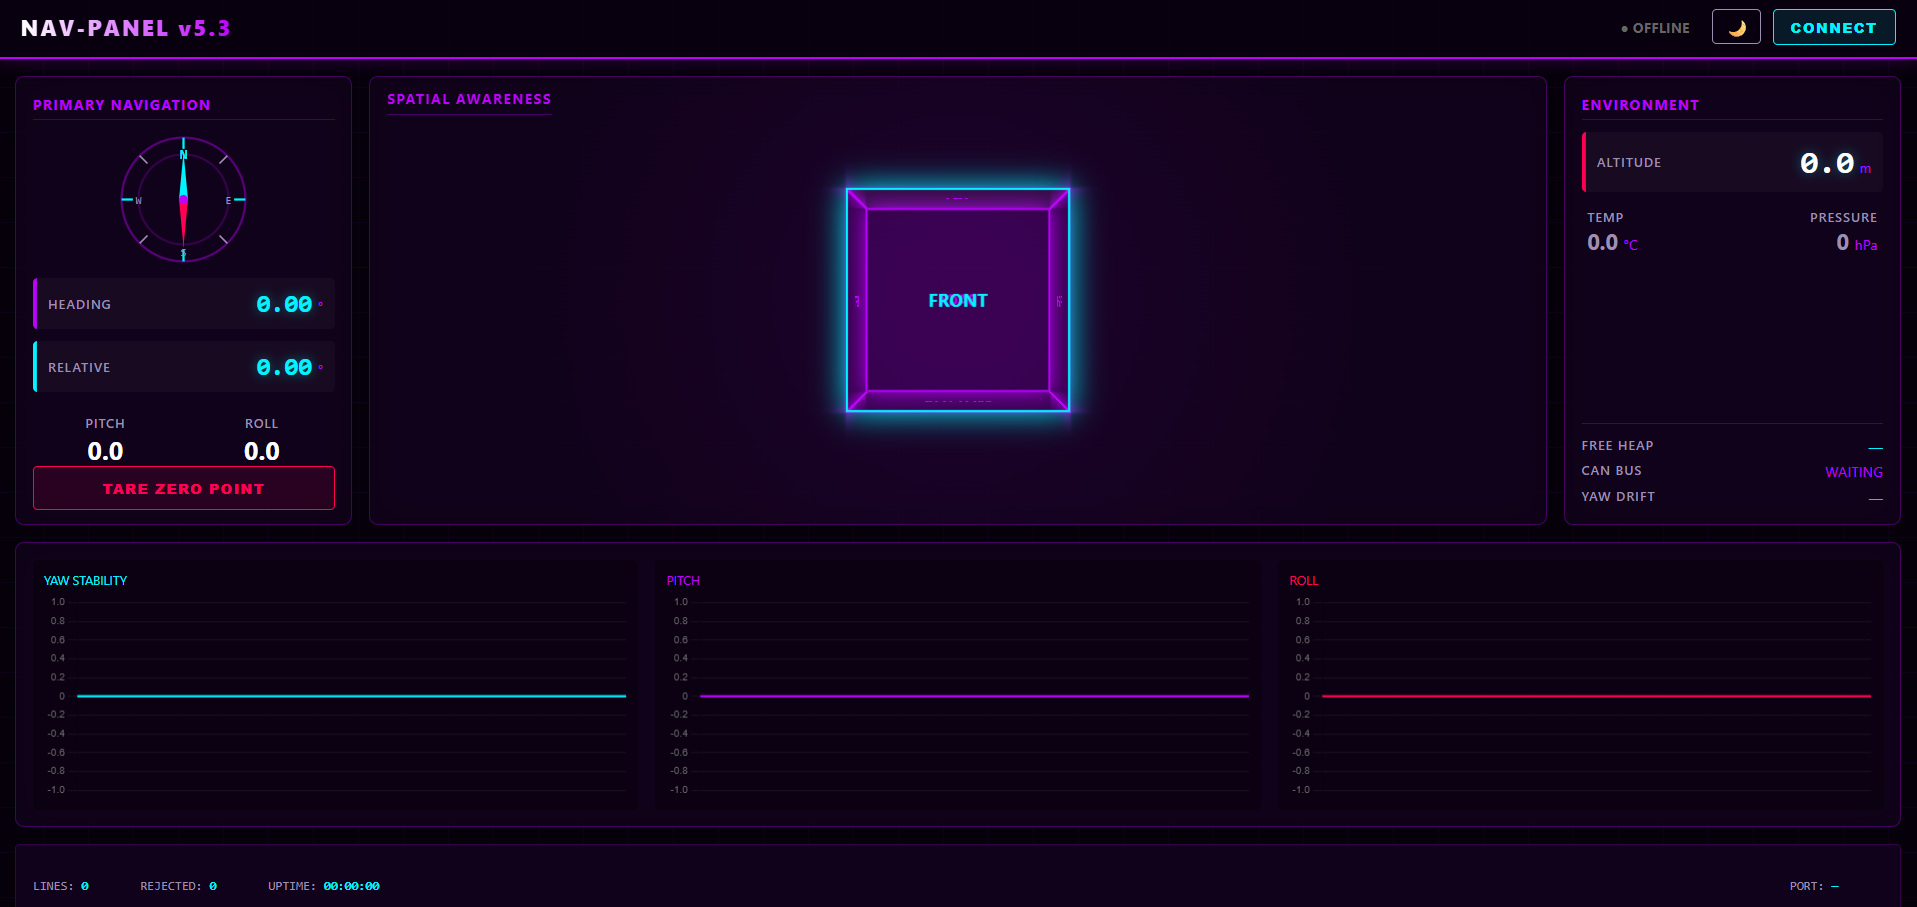
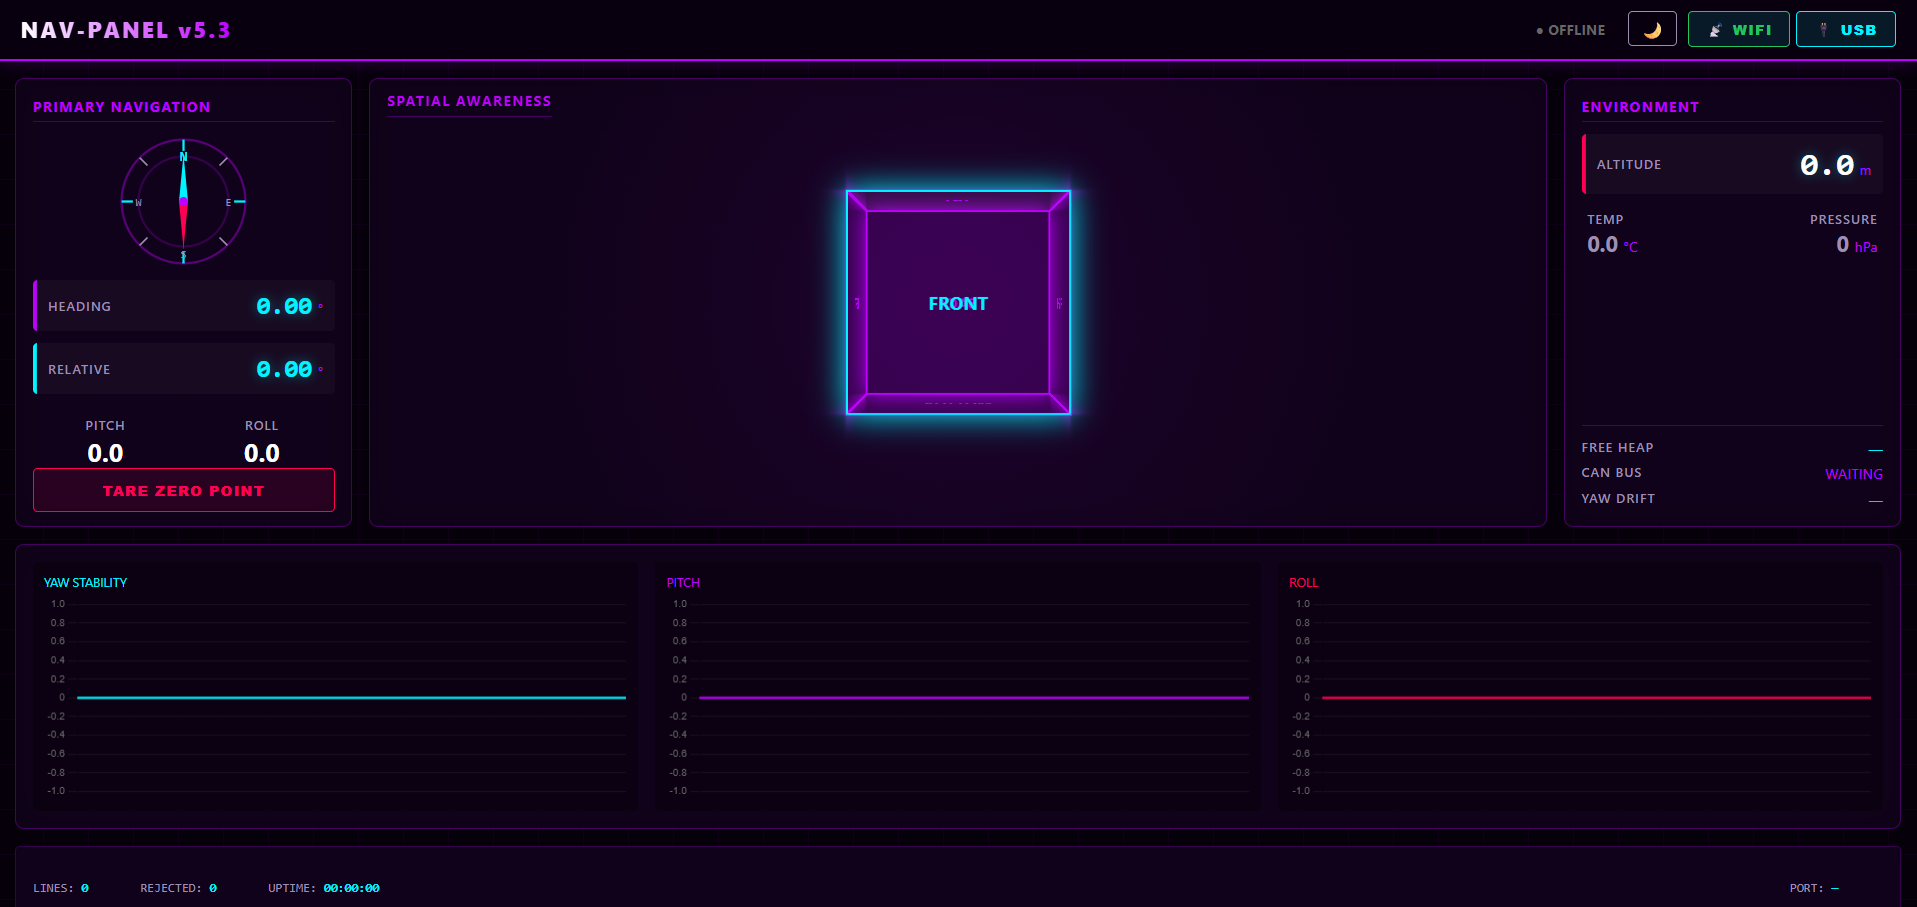
Update to v5.5: Documentation & Branding Updates

diff --git a/README.md b/README.md
@@ -1,11 +1,11 @@
-# 🚁 Industrial AHRS Navigation Module (V5.4)
+# 🚁 Industrial AHRS Navigation Module (V5.5)
 
 ![ESP32-S3](https://img.shields.io/badge/Hardware-ESP32--S3-red?style=for-the-badge&logo=espressif)
 ![Sensor Fusion](https://img.shields.io/badge/Fusion-DMP_225Hz-blue?style=for-the-badge)
 ![Connectivity](https://img.shields.io/badge/Connect-USB_%7C_UDP-purple?style=for-the-badge)
 ![License](https://img.shields.io/badge/License-MIT-green?style=for-the-badge)
 
-> **High-Precision Navigation Core for Competition Robotics (Robocon)**
+> **High-Precision Navigation Core for Competition Robotics**
 
 The **Industrial AHRS Navigation Module** is a robust sensor fusion engine built on the **ESP32-S3**. It delivers stable 6-axis orientation (Yaw, Pitch, Roll) via **1 Mbps CAN Bus** and offers **Dual-Mode Telemetry** (USB Serial + Wireless UDP) for real-time monitoring.
 
@@ -17,8 +17,9 @@ The **Industrial AHRS Navigation Module** is a robust sensor fusion engine built
 
 - [Key Features](#-key-features)
 - [System Architecture Overview](#-system-architecture-overview)
-- [Sensor Fusion Pipeline](#-sensor-fusion-pipeline)
+- [Sensor Fusion Pipeline (ICM-20948 DMP)](#-sensor-fusion-pipeline-icm-20948-dmp)
 - [System Status Indicators](#-system-status-indicators)
+- [FreeRTOS Task Architecture](#freertos-task-architecture)
 - [Hardware Specifications](#-hardware-specifications)
 - [Quick Start](#-quick-start)
 - [Documentation](#-documentation)
@@ -36,7 +37,7 @@ The **Industrial AHRS Navigation Module** is a robust sensor fusion engine built
 | **Power Optimized** | Efficient UDP broadcast, WiFi power save enabled, and smart task scheduling |
 | **High-Speed CAN** | ESP32-S3 TWAI driver at **1 Mbps** for Robomaster C620/C610 speed controllers |
 | **Environment Sensing** | BMP388 via SPI — Altitude (m), Pressure (hPa), Temperature (°C) at 50Hz ODR |
-| **Cyberpunk UI** | NAV PANEL v5.3 — Smoothed 3D cube, 30Hz live graphs, tare heading, health stats |
+| **Cyberpunk UI** | NAV PANEL v5.4 — Smoothed 3D cube, 30Hz live graphs, tare heading, health stats |
 
 ---
 
@@ -64,6 +65,7 @@ flowchart LR
         direction TB
         CAN_Task["taskCAN (P2, 50Hz)"]
         LED_Task["taskLED (P1, 10Hz)"]
+        Pool_Task["loop() (P1, Idle)"]
     end
 
     Mutex{{"🔒 Mutex"}}
@@ -80,42 +82,15 @@ flowchart LR
 
 ---
 
-## 🔬 Sensor Fusion Pipeline
+## 🌀 Sensor Fusion Pipeline (ICM-20948 DMP)
 
-### 1. DMP Quaternion Output
-The ICM-20948 DMP outputs raw fixed-point quaternion components (Q1, Q2, Q3). These are normalized from 30-bit signed integers:
+The module offloads complex sensor fusion math to the ICM-20948's **Digital Motion Processor (DMP)**. This frees up the ESP32-S3 for CAN communication and logic.
 
-```
-q1 = raw_Q1 / 1,073,741,824.0    (2^30)
-q2 = raw_Q2 / 1,073,741,824.0
-q3 = raw_Q3 / 1,073,741,824.0
-q0 = √(1 - q1² - q2² - q3²)      (unit quaternion constraint)
-```
-
-### 2. Quaternion → Euler Conversion
-Standard aerospace convention (ZYX rotation order):
-
-```
-Roll  (φ) = atan2(2(q0·q1 + q2·q3), 1 − 2(q1² + q2²)) × 180/π
-Pitch (θ) = asin(2(q0·q2 − q3·q1)) × 180/π
-Yaw   (ψ) = atan2(2(q0·q3 + q1·q2), 1 − 2(q2² + q3²)) × 180/π
-```
-
-### 3. Barometric Calculations
-```
-Pressure (hPa) = raw_pressure / 100.0         (BMP388 outputs Pa)
-Altitude (m)   = readAltitude(1013.25 hPa)     (ISA sea-level reference)
-Temperature    = direct reading (°C)
-```
-
-### 4. CAN Packing (Big-Endian)
-```
-int16_t yaw_raw   = (int16_t)(yaw_deg × 100)    → data[0..1]
-int16_t pitch_raw  = (int16_t)(pitch_deg × 100)  → data[2..3]
-int16_t roll_raw   = (int16_t)(roll_deg × 100)   → data[4..5]
-
-Each: data[n] = (val >> 8) & 0xFF,  data[n+1] = val & 0xFF
-```
+1.  **Raw Data**: Accel + Gyro sampled internally at 1125Hz.
+2.  **DMP Fusion**: 6-axis Game Rotation Vector algorithm runs on DMP.
+3.  **FIFO Read**: ESP32 `taskSensor` reads Quaternion (q0, q1, q2, q3) at 225Hz.
+4.  **Euler Conversion**: Quaternion converted to Yaw (-180 to +180), Pitch, Roll.
+5.  **Output**: Data written to shared mutex variables and Serial/UDP stream.
 
 ---
 
@@ -125,46 +100,49 @@ The module uses dual WS2812B RGB LEDs to communicate system state.
 
 | LED | Pin | Pattern | Meaning | Technical Detail |
 | :--- | :--- | :--- | :--- | :--- |
-| 🌈 **External** | **1** | Rainbow Cycle | System Idle / Ready | HSV hue 0→65535, increment +250/loop, brightness 40 |
-| 🟣 **Onboard** | **48** | Purple Blink (0.5Hz) | CPU Heartbeat | Color `RGB(60,0,150)`, toggle every 15 loops, brightness 50 |
-| 🔴 **Onboard** | **48** | Solid Red | DMP Init Failure | `RGB(255,0,0)`, system halts in `while(1)` |
+| **Device Status** | **1** | **Solid Green** | Normal Operation | System running, sensor fusion active |
+| **Device Status** | **1** | **Breathing Blue** | WiFi / OTA Active | UDP streaming or OTA update pending |
+| **Heartbeat** | **48** | **Purple Blink** (0.5Hz) | CPU Alive | Toggles every 1.5s (10Hz loop) |
+| **Error** | **48** | **Solid Red** | DMP Init Failure | Sensor initialization failed. Check wiring. |
+
+### FreeRTOS Task Architecture
+
+The ESP32-S3 dual-core processor runs three dedicated FreeRTOS tasks plus the Arduino `loop()`:
+
+1.  **`taskSensor` (Core 1, P3, 200Hz)**: Reads DMP FIFO, reads BMP388, updates orientation.
+2.  **`taskCAN` (Core 0, P2, 50Hz)**: Handles CAN transmission and reception.
+3.  **`taskLED` (Core 0, P1, 10Hz)**: Updates status LEDs.
+4.  **`loop()` (Core 1, P1)**: Handles OTA updates and low-power sleep when idle.
 
 ---
 
 ## 🛠 Hardware Specifications
 
-| Component | Model | Function | Bus | Config |
-| :--- | :--- | :--- | :--- | :--- |
-| **MCU** | ESP32-S3 SuperMini | Dual-Core Xtensa LX7 @ 240MHz | — | FreeRTOS, 2 cores |
-| **IMU** | ICM-20948 | 6-DOF Accel/Gyro + DMP | SPI @ 3 MHz | CS: Pin 10 |
-| **Barometer** | BMP388 | Altitude / Pressure / Temp | SPI | CS: Pin 9, 50Hz ODR |
-| **CAN Transceiver** | SN65HVD230 | CAN Bus 3.3V Interface | TWAI | TX: Pin 5, RX: Pin 6 |
-| **LED (External)** | WS2812B | Status Rainbow | NeoPixel | Pin 1 |
-| **LED (Onboard)** | WS2812B | CPU Heartbeat | NeoPixel | Pin 48 |
-
-### BMP388 Oversampling Configuration
-| Parameter | Setting |
+| Component | Specification |
 | :--- | :--- |
-| Temperature Oversampling | 8× |
-| Pressure Oversampling | 4× |
-| IIR Filter Coefficient | 3 |
-| Output Data Rate | 50 Hz |
+| **MCU** | ESP32-S3FH4R2 (Dual Core 240MHz, 4MB Flash, 2MB PSRAM) |
+| **IMU** | TDK InvenSense ICM-20948 (9-Axis MEMS) |
+| **Barometer** | Bosch BMP388 (Precision Altimeter) |
+| **CAN Transceiver** | SN65HVD230 (3.3V Logic) |
+| **Power Input** | 5V via USB-C or VIN Pin |
+| **Logic Level** | 3.3V |
 
 ---
 
 ## ⚡ Quick Start
 
-### 1. Clone & Setup
-```bash
-git clone https://github.com/zwll0911/GY912_Module.git
-cd GY912_Module
-```
+### 1. Hardware Setup (PCB v1.1)
+Ensure the module is powered via 5V. The LEDs should light up:
+- **Pin 1**: Solid Green (Normal) or Breathing Blue (WiFi).
+- **Pin 48**: Blinking Purple (Heartbeat).
 
-### 2. Wiring
-Connect sensors as per the [Hardware Guide](docs/HARDWARE.md). **Ensure 3.3V logic compatibility!**
+### 2. Flash Firmware
+Use **PlatformIO** (recommended) or Arduino IDE.
+- **PlatformIO**: Open project folder → Click `Upload`.
+- **Arduino**: Open `firmware/esp32s3/esp32s3.ino` → Select "ESP32S3 Dev Module" → Upload.
 
-### 3. Build & Flash
-Use **PlatformIO** in VSCode to compile and upload the firmware to the ESP32-S3.
+### 3. Calibration
+Place the module on a flat, stationary surface for 3 seconds after power-up. The DMP auto-calibrates gyro bias.
 
 ### 4. Connect CAN
 Hook up `CAN H` and `CAN L` to your Robomaster bus network (**1 Mbps**).

diff --git a/docs/ARCHITECTURE.md b/docs/ARCHITECTURE.md
@@ -8,7 +8,7 @@ This document explains the complete software architecture, sensor fusion mathema
 
 ## ⚡ FreeRTOS Task Architecture
 
-The ESP32-S3 dual-core processor runs three dedicated FreeRTOS tasks. The Arduino `loop()` function is deleted immediately (`vTaskDelete(NULL)`) after task creation.
+The ESP32-S3 dual-core processor runs three dedicated FreeRTOS tasks plus the Arduino `loop()` function.
 
 ### Task Configuration
 
@@ -16,7 +16,8 @@ The ESP32-S3 dual-core processor runs three dedicated FreeRTOS tasks. The Arduin
 | :--- | :--- | :--- | :--- | :--- | :--- | :--- |
 | **taskSensor** | `taskSensor()` | 3 (Highest) | Core 1 | 4096 bytes | ~200Hz | `vTaskDelay(pdMS_TO_TICKS(5))` |
 | **taskCAN** | `taskCAN()` | 2 (Mid) | Core 0 | 4096 bytes | 50Hz | `vTaskDelay(pdMS_TO_TICKS(20))` |
-| **taskLED** | `taskLED()` | 1 (Lowest) | Core 0 | 2048 bytes | 50Hz | `vTaskDelay(pdMS_TO_TICKS(20))` |
+| **taskLED** | `taskLED()` | 1 (Lowest) | Core 0 | 2048 bytes | 10Hz | `vTaskDelay(pdMS_TO_TICKS(100))` |
+| **loop()** | `loop()` | 1 (Lowest) | Core 1 | Default | Idle | `vTaskDelay(50)` / `(100)` |
 
 ### Task Creation Code
 ```cpp
@@ -28,6 +29,35 @@ xTaskCreatePinnedToCore(taskLED,    "LED", 2048, NULL, 1, NULL, 0);  // Core 0
 > [!TIP]
 > **Why is `taskSensor` pinned to Core 1?**
 > The ESP32-S3 TWAI (CAN) driver generates interrupts on Core 0 by default. Pinning the time-critical DMP FIFO reads to Core 1 prevents CAN bus interrupts from causing timing jitter in the sensor fusion loop.
+
+## 🌈 LED Behaviour (taskLED)
+
+### Pin 1 — External Status
+- **Solid Green**: Normal Operation (Sensor Fusion Active)
+- **Breathing Blue**: WiFi / OTA Active (UDP Streaming)
+
+```cpp
+if (otaInitialized) {
+    // Breathing Blue logic
+    breathVal += breathDir;
+    if (breathVal >= 200 || breathVal <= 10) breathDir = -breathDir;
+    extLED.setPixelColor(0, extLED.Color(0, 0, (uint8_t)breathVal));
+} else {
+    // Solid Green
+    extLED.setPixelColor(0, extLED.Color(0, 80, 0));
+}
+```
+
+### Pin 48 — Onboard Purple Heartbeat
+```cpp
+uint32_t purple = obLED.Color(60, 0, 150);
+blinkTimer++;
+if (blinkTimer >= 15) {  // Toggle every 15 × 100ms = 1.5s
+    blinkState = !blinkState;
+    obLED.setPixelColor(0, blinkState ? purple : off);
+    blinkTimer = 0;
+}
+```
 
 ### Thread Safety — Mutex
 

diff --git a/docs/WEB_DASHBOARD.md b/docs/WEB_DASHBOARD.md
@@ -1,4 +1,4 @@
-# 🖥 Web Dashboard — NAV PANEL v5.4
+# 🖥 Web Dashboard — NAV PANEL v5.5
 
 [🔙 **Back to Main README**](../README.md)
 
@@ -117,10 +117,11 @@ cube.style.transform = `rotateX(${-p}deg) rotateY(${y}deg) rotateZ(${-r}deg)`;
 
 ### Panel 3 (cont.) — System Health
 
-| Indicator | Static Value | Color |
+| Indicator | Data Source | Details |
 | :--- | :--- | :--- |
-| **CPU LOAD** | `NOMINAL` | Cyan (`--accent-cyan`) |
-| **CAN BUS** | `ACTIVE (1 MBPS)` | Purple (`--primary-purple`) |
+| **FREE HEAP** | CSV field [13] | ESP32 free memory in KB (e.g., `210 KB`) |
+| **CAN BUS** | CSV field [14] | Status: `OK (1 MBPS)` or `ERR:<count>` |
+| **YAW DRIFT** | CSV field [15] | Gyro drift rate in °/s (Color-coded: Cyan < 0.05) |
 
 ### Panel 4 — Stability Graphs (Bottom Row, spans 3 columns)
 

diff --git a/CHANGELOG.md b/CHANGELOG.md
@@ -4,6 +4,15 @@ All notable changes to the **Industrial AHRS Navigation Module** will be documen
 
 ---
 
+## [5.5] — 2026-02-12
+
+### 📚 Documentation & Branding
+- **Updated LED Status**: Corrected documentation to reflect Solid Green (Normal) and Breathing Blue (WiFi) patterns.
+- **Task Architecture**: Clarified that `loop()` is active (not deleted) and handles OTA/Sleep.
+- **System Health**: Updated dashboard documentation to match dynamic fields (Heap, CAN Status, Drift).
+- **Branding**: Removed "Robocon" references for a more general-purpose industrial focus.
+- **Assets**: Updated `dashboard_preview.png` with latest UI.
+
 ## [5.4] — 2026-02-12
 
 ### 🚀 UDP Streaming & Power Optimization
